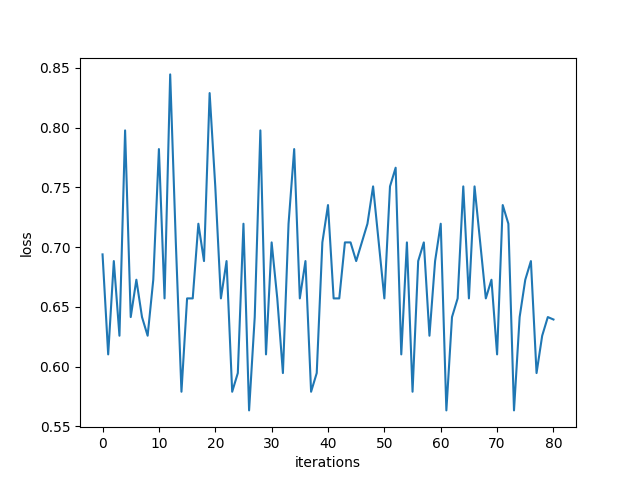
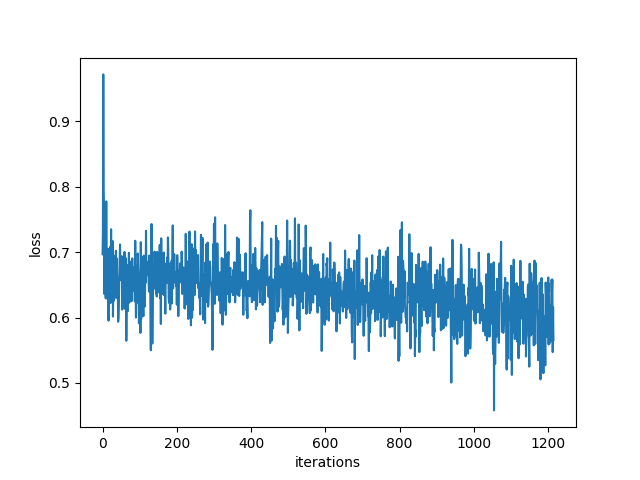
tried 1e-4

diff --git a/Vishal_tests/base/smile_model.py b/Vishal_tests/base/smile_model.py
@@ -238,7 +238,7 @@ print("defined model")
 model.type(dtype)
 model.train()
 loss_fn = nn.CrossEntropyLoss().type(dtype)
-optimizer = optim.Adam(model.parameters(), lr=5e-4,weight_decay=0)
+optimizer = optim.Adam(model.parameters(), lr=1e-4,weight_decay=0)
 print("start training")
 loss_history,acc_history,val_acc_history=train(train_loader,val_loader, model, loss_fn, optimizer, dtype,num_epochs=15, print_every=10)
 
